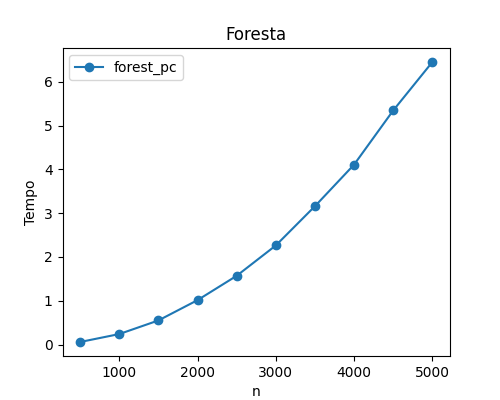
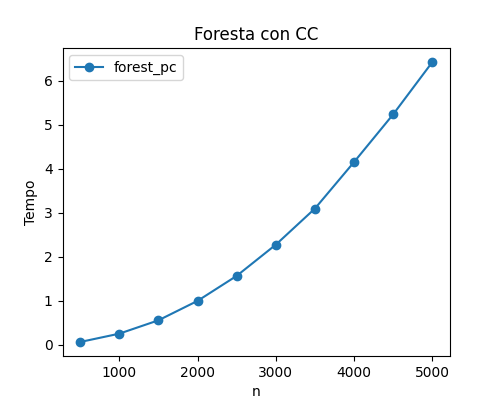
benchmark: all benchmarks done

diff --git a/benchmarks/bench_list.py b/benchmarks/bench_list.py
@@ -25,16 +25,16 @@ def bench(n_list, density):
 		start = time.perf_counter_ns()
 		m = handler.find_connected_components(graph)
 		end = time.perf_counter_ns()
-		#weighted_start = time.perf_counter_ns()
-		#weighted_m = handler.weighted_find_connected_components(graph)
-		#weighted_end = time.perf_counter_ns()
+		weighted_start = time.perf_counter_ns()
+		weighted_m = handler.weighted_find_connected_components(graph)
+		weighted_end = time.perf_counter_ns()
 		exec_time = (end - start) / 1e9
-		#weighted_exec_time = (weighted_end - weighted_start) / 1e9
+		weighted_exec_time = (weighted_end - weighted_start) / 1e9
 		print(f"(Normal LL)   m: {m} - time: {exec_time:.6f} seconds")
-		#print(f"(Weighted LL) m: {weighted_m} - time : {weighted_exec_time:.6f} seconds")
+		print(f"(Weighted LL) m: {weighted_m} - time : {weighted_exec_time:.6f} seconds")
 		print()
 
 		# Benchmark results
 		dao.insert_result("linked", n, m, exec_time)
-		#dao.insert_result("weighted_linked", n, weighted_m, weighted_exec_time)
+		dao.insert_result("weighted_linked", n, weighted_m, weighted_exec_time)
 		

diff --git a/benchmarks/benchmarks.py b/benchmarks/benchmarks.py
@@ -108,6 +108,6 @@ def generate_plot_ref():
 if __name__ == "__main__":
     base = 500
     step = 500
-    #bench_forest([base+step*x for x in range(10)], 0.9)
-    bench_list([base+step*x for x in range(10)], 0.9)
-    generate_plot("Lista Concatenata", "linked.png")
+    bench_forest([base+step*x for x in range(10)], 0.9)
+    #bench_list([base+step*x for x in range(10)], 0.9)
+    generate_plot("Foresta vs Foresta con CC", "forest_vs_pc.png")

diff --git a/benchmarks/bench_forest.py b/benchmarks/bench_forest.py
@@ -26,7 +26,7 @@ def bench(n_list, density):
 		end = time.perf_counter_ns()
 		exec_time = (end - start) / 1e9
 
-		print(f"(Forest)   m: {m} - time: {exec_time:.6f} seconds")
+		print(f"(Forest PC)   m: {m} - time: {exec_time:.6f} seconds")
 		print()
 
 		dao.insert_result("forest_pc", n, m, exec_time)
